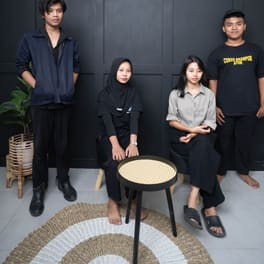
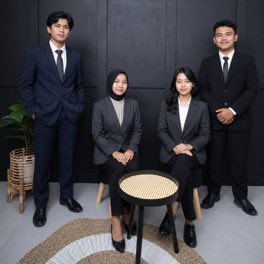
Reshoot the Black Molding wall, sell pas foto by the take, and stop quoting outdoor rates (#72)
* Reshoot the Black Molding wall, and frame both backdrops like the cards around them

The photograph is replaced with the one the owner sent on 2026-08-13: the same
four people against the same moulded wall, in formal dress. It arrives 1023x1537
and every other file in public/img/paket is a 264px square, so it is cropped to
one — from y=480 rather than the centre, because a centred square cuts the group
off at the ankles and loses the rug.

The pair also stops floating. On a desktop they sat as two bare 264px squares
that stopped halfway across a section whose every other row is a full-width
bordered card, which read as decoration that had drifted in rather than as part
of the picker. From 640px — the width the picks split into two columns — they now
take the same two columns, the same gap and the same card, measured equal at
1072px and 530px.

Laid out as a row, picture left and name beside it, rather than a photograph with
a caption under it. Filling a 530px column is a 2x upscale of a 264px JPEG that
has no larger original: rendered and looked at, and both walls come out visibly
soft. At 176px the moulding still reads as a pattern and the file stays inside
its own resolution.

The image is min(176px, 45%) rather than a flat 176px. Just past the breakpoint
the column is 294px, which leaves 80px for the name, and "Mediteranian" is one
82px word that cannot wrap — it pushed out through the padding and sat on the
border. Checked at 640, 660, 820 and 1440.
[…]

diff --git a/packages/content/src/verticals/studio.ts b/packages/content/src/verticals/studio.ts
@@ -41,6 +41,24 @@ const BOOKING = "studiobykami-{self,photobox}.youcanbook.me, read 2026-08-10";
 const OUTDOOR_PDF = "refs/PRICE LIST DILUAR STUDIO.pdf (owner PDF, not owner-confirmed)";
 
 /**
+ * Why the four packages below carry no price.
+ *
+ * Not a missing number: the PDF's figures are still in `OUTDOOR_PDF` and the
+ * booking API still holds them. The owner withdrew them from the pages on
+ * 2026-08-20 because this work is quoted per job — location, duration and
+ * headcount all move it — and a headline rate a customer arrives holding is a
+ * rate the studio then has to argue out of.
+ *
+ * `blocked` because that is the status that does not render and does not
+ * publish, which is what withheld needs. It does mean these show up in
+ * `gaps()` as if they were unconfirmed facts; they are the one kind of blocked
+ * fact that no amount of asking the owner will close.
+ */
+const QUOTED_PER_JOB =
+  "Withheld on purpose (owner, 2026-08-20) — quoted per job. The figure is still in " +
+  "refs/PRICE LIST DILUAR STUDIO.pdf and in the booking API's seed.";
+
+/**
  * studio by KAMI — self-photo studio, pas foto, in Jajag, Banyuwangi.
  *
  * Every price below is read off the owner's price-list PDF, which is gitignored
@@ -238,11 +256,26 @@ export const studio: Vertical = {
       printsIncluded: unverified(3, PDF),
       headcount: unverified({ min: 7, max: 10 }, `${BOOKING} — "7-10 ORANG"; the PDF read 1-10 cumulatively`),
     },
+    /*
+     * The two take counts here are the owner's, given on 2026-08-20, and they
+     * are the only numbers in this file that beat the PDF on their own subject.
+     *
+     * A pas foto is not sold by the minute. Every other package rents a room for
+     * a length of time; this one is a face against a background, and what the
+     * studio actually promises is how many tries you get — which is why the
+     * booking page prints takes where it prints minutes everywhere else. The
+     * PDF's "maksimal 15x take" was simply out of date.
+     *
+     * They sit in `description` because that is where the PDF put them and there
+     * is no takes field to move them to. Adding one would mean a schema change
+     * here and a matching override on the booking page, which reads its packages
+     * from the API rather than from this file.
+     */
     {
       id: "pas-foto",
       name: "Pas Foto (close up)",
       serviceLine: "pas-foto",
-      description: "Maksimal 15x take, 1 print 4R (bisa custom ukuran), 1 file edit.",
+      description: "Maksimal 10x take, 1 print 4R (bisa custom ukuran), 1 file edit.",
       orderIndex: 4,
       priceIDR: unverified(50_000, `${PDF} — per orang`),
       printsIncluded: unverified(1, PDF),
@@ -252,7 +285,7 @@ export const studio: Vertical = {
       id: "marry-me",
       name: "Marry Me (pas foto)",
       serviceLine: "pas-foto",
-      description: "1 background, 2 print 4R, 6 file edit.",
+      description: "Maksimal 20x take, 1 background, 2 print 4R, 6 file edit.",
       orderIndex: 5,
       priceIDR: unverified(90_000, `${PDF} — per 2 orang`),
       durationMinutes: unverified(20, PDF),
@@ -374,7 +407,7 @@ export const studio: Vertical = {
       serviceLine: "outdoor-photographer",
       description: "Maksimal 1 jam, semua file diedit, gratis 2 print 4R.",
       orderIndex: 13,
-      priceIDR: unverified(350_000, OUTDOOR_PDF),
+      priceIDR: blocked(QUOTED_PER_JOB),
       durationMinutes: unverified(60, OUTDOOR_PDF),
       printsIncluded: unverified(2, OUTDOOR_PDF),
     },
@@ -384,7 +417,7 @@ export const studio: Vertical = {
       serviceLine: "outdoor-photographer",
       description: "Maksimal 1,5 jam, semua file diedit, gratis 4 print 4R.",
       orderIndex: 14,
-      priceIDR: unverified(500_000, OUTDOOR_PDF),
+      priceIDR: blocked(QUOTED_PER_JOB),
       durationMinutes: unverified(90, OUTDOOR_PDF),
       printsIncluded: unverified(4, OUTDOOR_PDF),
     },
@@ -394,7 +427,7 @@ export const studio: Vertical = {
       serviceLine: "outdoor-photographer",
       description: "Maksimal 3 jam, semua file diedit, gratis 1 print 10R berpigura.",
       orderIndex: 15,
-      priceIDR: unverified(850_000, OUTDOOR_PDF),
+      priceIDR: blocked(QUOTED_PER_JOB),
       durationMinutes: unverified(180, OUTDOOR_PDF),
       printsIncluded: unverified(1, OUTDOOR_PDF),
     },
@@ -404,7 +437,7 @@ export const studio: Vertical = {
       serviceLine: "videographer",
       description: "Maksimal 3 jam, hasil edit 2–4 menit.",
       orderIndex: 16,
-      priceIDR: unverified(650_000, OUTDOOR_PDF),
+      priceIDR: blocked(QUOTED_PER_JOB),
       durationMinutes: unverified(180, OUTDOOR_PDF),
     },
   ],

diff --git a/packages/content/src/llms.ts b/packages/content/src/llms.ts
@@ -53,15 +53,20 @@ export const llmsTxt = (v: Vertical): string => {
 
   if (contact.length > 0) out.push("## Kontak & lokasi", "", ...contact, "");
 
-  const offerings = v.offerings
-    .slice()
-    .sort((a, b) => a.orderIndex - b.orderIndex)
-    .filter((o) => valueOf(o.priceIDR) !== undefined);
+  const offerings = v.offerings.slice().sort((a, b) => a.orderIndex - b.orderIndex);
 
   if (offerings.length > 0) {
     out.push("## Paket & harga", "");
     for (const o of offerings) {
-      const parts: string[] = [idr.format(valueOf(o.priceIDR)!)];
+      // A package with no price is still a package the studio sells, so it is
+      // listed and says so. This used to filter them out, which was right while
+      // the only priceless offering was one nobody had costed — it stops being
+      // right the moment a price is withheld on purpose, because dropping the
+      // row tells a model the work is not offered at all.
+      const price = valueOf(o.priceIDR);
+      const parts: string[] = [
+        price === undefined ? "harga spesial (tanya admin)" : idr.format(price),
+      ];
 
       const duration = o.durationMinutes ? valueOf(o.durationMinutes) : undefined;
       if (duration !== undefined) parts.push(`${duration} menit`);

diff --git a/packages/content/src/sourced.ts b/packages/content/src/sourced.ts
@@ -13,7 +13,13 @@ import { z } from "zod";
  *
  *   verified   — owner-confirmed. Renders, and emits structured data.
  *   unverified — read off a PDF or inferred. Renders, never emits structured data.
- *   blocked    — no source at all. Does not render.
+ *   blocked    — nothing to publish. Does not render.
+ *
+ * "Nothing to publish" is usually no source at all, and occasionally a fact the
+ * owner has a source for and has decided not to put on a page — see
+ * QUOTED_PER_JOB in verticals/studio.ts. The `note` is what tells the two apart,
+ * so it is worth writing properly: `gaps()` prints it, and a reader deciding
+ * whether a blocked fact is still waiting on somebody has nothing else to go on.
  */
 export type Sourced<T> =
   | { status: "verified"; value: T; source: string }
